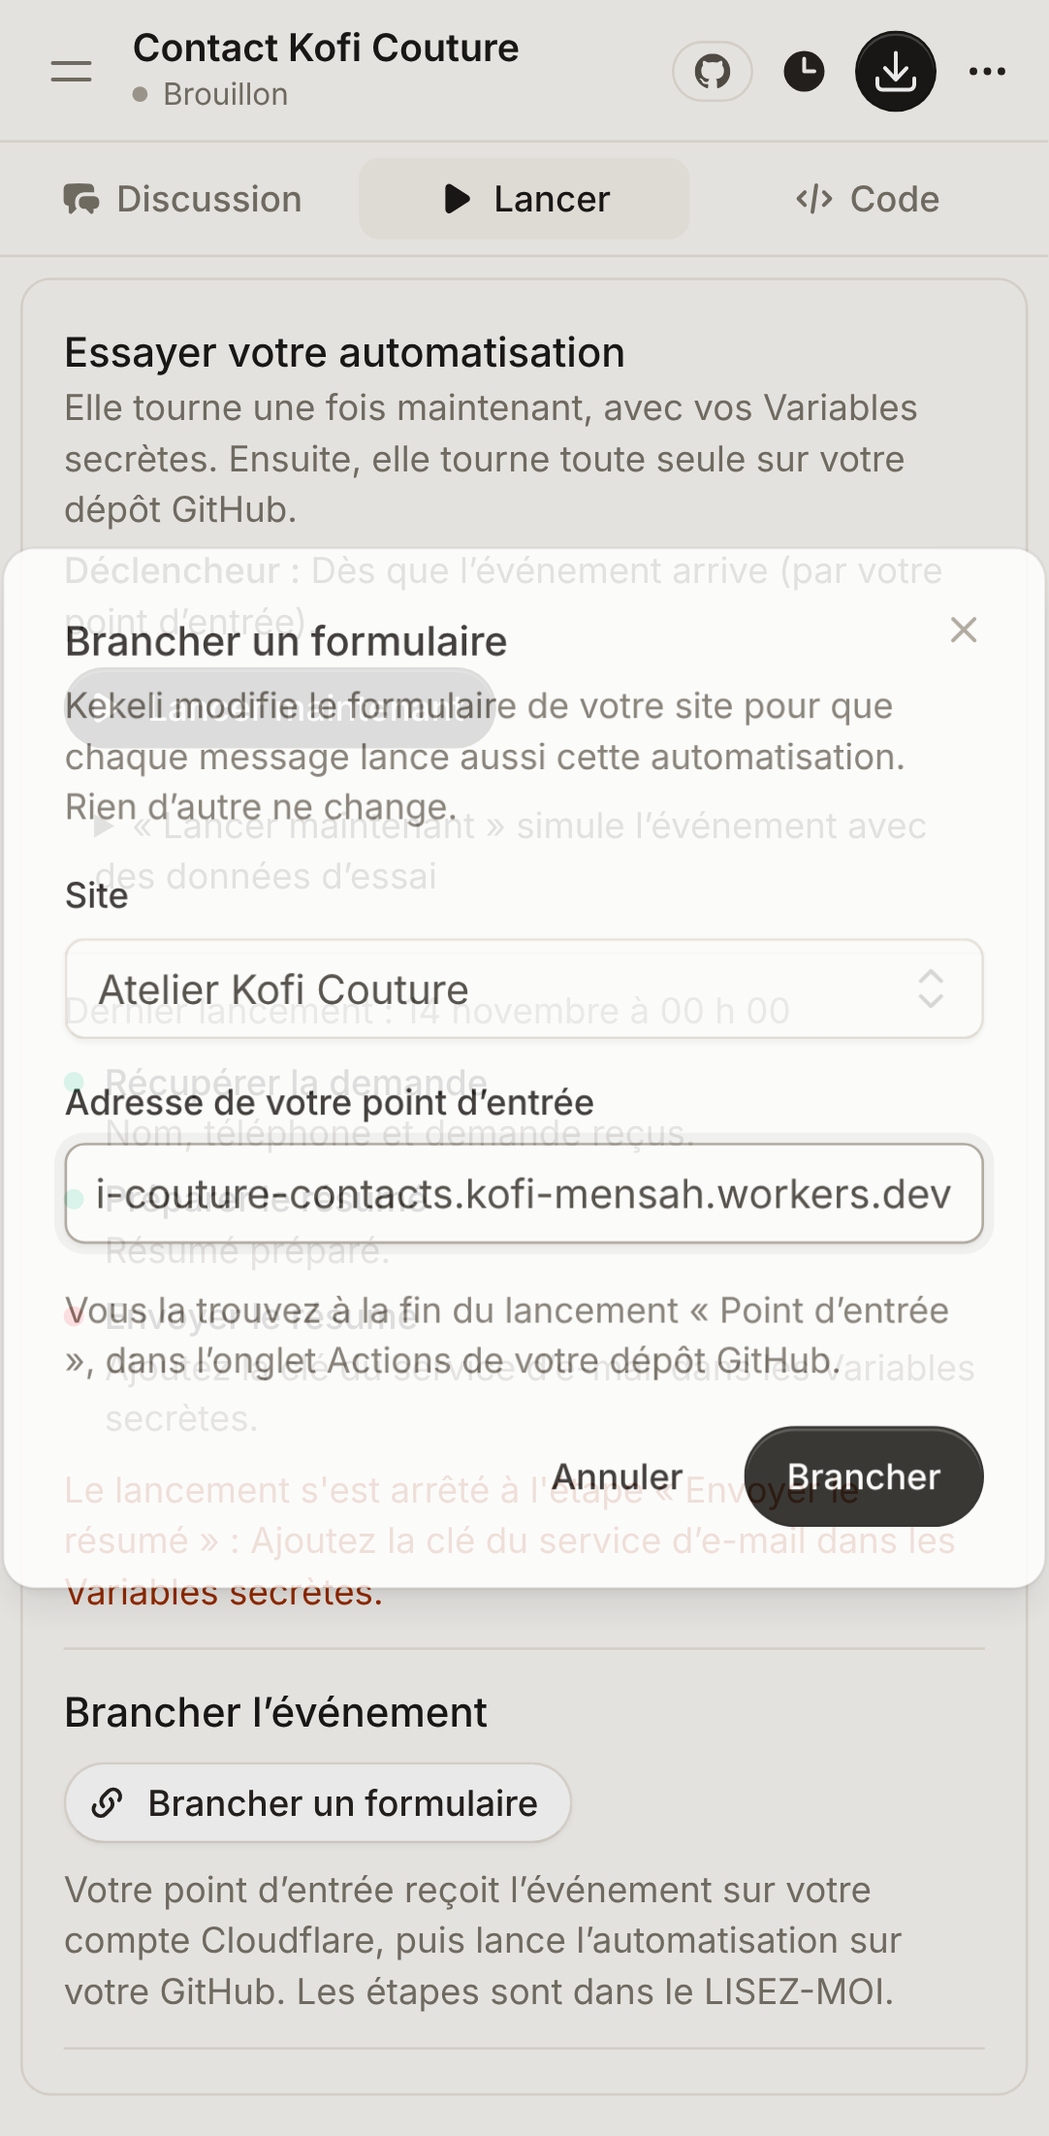
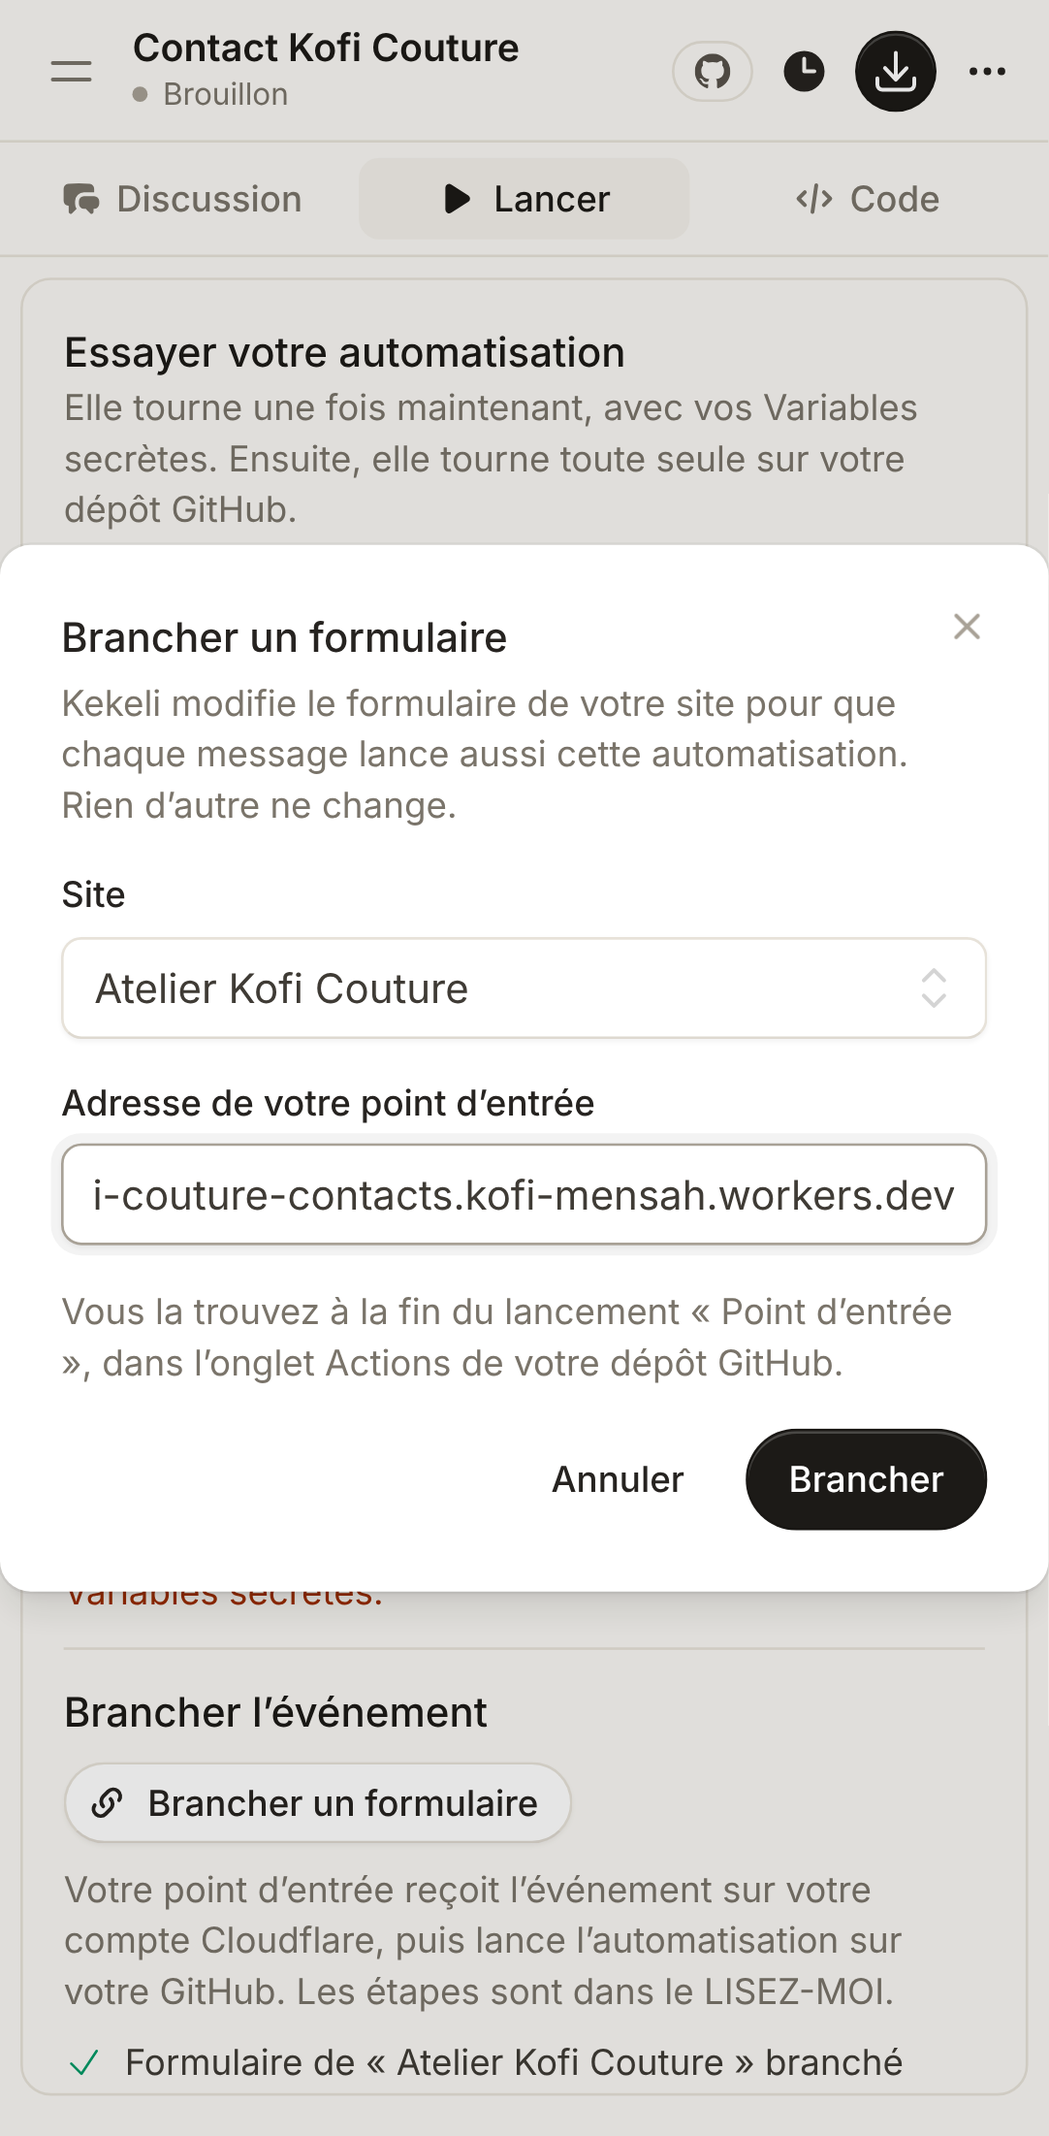
Captures des automatisations par événement et des équipes d'agents (téléphone et ordinateur, clair et sombre), LISEZ-MOI de branchement, journal des déclenchements ; plan, CLAUDE.md et REPRISE.md à jour ; réglages d'essai remis comme avant
Claude-Session: https://claude.ai/code/session_01NR8N739nd6zfvRw36dXNzo

diff --git a/scripts/captures-evenements.js b/scripts/captures-evenements.js
@@ -1,0 +1,70 @@
+// Captures du journal des déclenchements d'une automatisation lancée par un événement (après scripts/essai-evenement.js) :
+// un faux GitHub rend les lancements de l'essai réel (runner/mesures/essai-evenement.json), comme l'interface
+// officielle de GitHub. Site lancé avec KEKELI_GITHUB_API=http://127.0.0.1:8790.
+//   node scripts/captures-evenements.js <projet de l'automatisation> docs/captures/evenements-equipes
+import { createRequire } from 'node:module'
+import { readFileSync } from 'node:fs'
+import http from 'node:http'
+import { execFileSync } from 'node:child_process'
+
+const require = createRequire(import.meta.url)
+const { chromium, devices } = require('playwright')
+const [projet, dossier = 'docs/captures/evenements-equipes'] = process.argv.slice(2)
+const base = process.env.KEKELI_URL || 'http://127.0.0.1:8123'
+const attendre = (ms) => new Promise((r) => setTimeout(r, ms))
+const essai = JSON.parse(readFileSync('runner/mesures/essai-evenement.json', 'utf8'))
+const lancements = essai.etapes.filter((e) => e.etape.startsWith('Automatisation lancée'))
+const runs = lancements.map((l, i) => ({ name: 'Automatisation', event: 'repository_dispatch', status: 'completed', conclusion: l.code === 0 ? 'success' : 'failure', created_at: l.a, html_url: `https://github.com/kofi-mensah/kofi-couture-contacts/actions/runs/${1000 + i}` })).reverse()
+const github = http.createServer((req, res) => {
+  res.writeHead(200, { 'content-type': 'application/json' })
+  res.end(JSON.stringify(req.url.includes('/actions/runs') ? { workflow_runs: runs } : {}))
+}).listen(8790, '127.0.0.1')
+
+const navigateur = await chromium.launch({ args: ['--lang=fr-FR'] })
+for (const [nom, reglages] of [['telephone', { ...devices['Pixel 7'], colorScheme: 'light' }], ['telephone-sombre', { ...devices['Pixel 7'], colorScheme: 'dark' }], ['ordinateur', { viewport: { width: 1440, height: 900 }, deviceScaleFactor: 2, colorScheme: 'light' }], ['ordinateur-sombre', { viewport: { width: 1440, height: 900 }, deviceScaleFactor: 2, colorScheme: 'dark' }]]) {
+  const contexte = await navigateur.newContext({ ...reglages, locale: 'fr-FR' })
+  const page = await contexte.newPage()
+  await page.goto(base + '/login')
+  await page.fill('input[type=email]', 'kofi-evenement@exemple.tg')
+  await page.fill('input[type=password]', 'motdepasse-solide-2026')
+  await page.click('button[type=submit]')
+  await page.waitForURL('**/projets**')
+  // Le plan, à partir de son déclencheur.
+  await page.goto(`${base}/projets/${projet}`)
+  await attendre(2000)
+  await page.locator('h2:has-text("Déclencheur")').first().evaluate((h) => h.scrollIntoView({ block: 'start' }))
+  await attendre(500)
+  await page.screenshot({ path: `${dossier}/${nom}-plan-automatisation.png` })
+  await page.goto(`${base}/projets/${projet}?vue=apercu`)
+  await attendre(2500)
+  // La fenêtre « Brancher un formulaire », une fois ouverte (sans rien envoyer).
+  if (nom === 'telephone' || nom === 'ordinateur') {
+    await page.locator('[data-wire-open]').click()
+    await page.locator('[data-wire-form] select').first().selectOption({ index: 1 }).catch(() => {})
+    await page.locator('[data-wire-form] input').last().fill('https://kofi-couture-contacts.kofi-mensah.workers.dev')
+    await attendre(1200)
+    await page.screenshot({ path: `${dossier}/${nom}-brancher-formulaire.png` })
+    await page.keyboard.press('Escape')
+    await attendre(800)
+  }
+  await page.goto(`${base}/projets/${projet}?vue=apercu`)
+  await attendre(2500)
+  await page.locator('[data-trigger-log]').scrollIntoViewIfNeeded()
+  await attendre(500)
+  await page.screenshot({ path: `${dossier}/${nom}-journal-declenchements.png` })
+  await contexte.close()
+}
+// Le LISEZ-MOI écrit par Kekeli, section « Brancher un événement », mis en forme comme sur GitHub.
+const lisezMoi = String(essai.lisez_moi ?? '')
+const debut = lisezMoi.indexOf('## Brancher un événement')
+const section = debut >= 0 ? lisezMoi.slice(debut).split(/\n(?=## )/)[0] : lisezMoi
+const html = execFileSync('php', ['artisan', 'tinker', '--execute', `echo Illuminate\\Support\\Str::markdown(base64_decode('${Buffer.from(section).toString('base64')}'), ['html_input' => 'escape']);`]).toString()
+for (const [nom, reglages] of [['telephone', { ...devices['Pixel 7'], colorScheme: 'light' }], ['ordinateur', { viewport: { width: 1000, height: 900 }, deviceScaleFactor: 2, colorScheme: 'light' }]]) {
+  const contexte = await navigateur.newContext({ ...reglages, locale: 'fr-FR' })
+  const page = await contexte.newPage()
+  await page.setContent(`<!doctype html><meta charset="utf-8"><style>body{font:16px/1.6 -apple-system,Segoe UI,Helvetica,Arial,sans-serif;color:#1f2328;margin:0;padding:16px;background:#fff}.fichier{border:1px solid #d0d7de;border-radius:6px;overflow:hidden}.entete{background:#f6f8fa;border-bottom:1px solid #d0d7de;padding:8px 16px;font-weight:600;font-size:14px}.corps{padding:8px 20px}h2{border-bottom:1px solid #d0d7de;padding-bottom:6px}pre{background:#f6f8fa;padding:12px;border-radius:6px;overflow-x:auto;font-size:12px;white-space:pre-wrap;word-break:break-word}code{background:#eff1f3;padding:1px 4px;border-radius:4px;font-size:85%;word-break:break-word}pre code{background:none;padding:0}</style><div class="fichier"><div class="entete">LISEZ-MOI.md</div><div class="corps">${html}</div></div>`)
+  await page.screenshot({ path: `${dossier}/${nom}-lisez-moi-branchement.png`, fullPage: true })
+  await contexte.close()
+}
+await navigateur.close()
+github.close()

diff --git a/docs/captures/evenements-equipes.md b/docs/captures/evenements-equipes.md
@@ -1,0 +1,91 @@
+# Automatisations par événement et équipes d'agents (13 et 14 novembre 2026)
+
+Règle du porteur du projet : mesurer avant et après quand c'est possible, et annuler ce qui n'améliore rien. **Kekeli écrit le code ; tout tourne chez l'utilisateur** (son GitHub, son compte Cloudflare, ses clés), jamais chez Kekeli. Détails et sources : `docs/plan.md`, partie 26.20. Les coûts sont des **estimations**.
+
+## 1. Images libres des vidéos en formule Gratuite
+
+| | Avant | Après |
+|---|---|---|
+| Scènes avec une vraie image (5 sujets, 15 scènes, recherche Pixabay seule) | 11 sur 15 | **15 sur 15** |
+| Fond animé | 4 scènes | aucune |
+
+Sujets : boutique de pagnes, école primaire, maquis, garage, formation en couture. Images trouvées après : tissus colorés, salle de classe, poisson grillé, atelier de moto, machine à coudre, mètre de couturière… Mesure : `runner/mesures/pixabay-mesure.json`.
+
+## 2. Automatisation déclenchée par le formulaire d'un site (essai réel)
+
+« Quand un client remplit le formulaire de contact de mon site Kofi Couture, envoie-moi un résumé par e-mail » : site et automatisation construits pour de vrai par Kekeli, formulaire branché par Kekeli, envoi depuis l'aperçu du site, point d'entrée écrit par Kekeli lancé dans le vrai moteur de Cloudflare, automatisation lancée comme le fait GitHub Actions. Résultats : `runner/mesures/essai-evenement.json`.
+
+| Contrôle | Résultat |
+|---|---|
+| Déclencheur reconnu dans le code | « événement », secret du point d'entrée créé, événement d'essai prêt |
+| « Lancer maintenant » (événement simulé) | nom, téléphone et demande reçus ; résumé préparé ; e-mail non envoyé (pas de clé Resend pendant l'essai) |
+| Formulaire du site rempli par un visiteur | « Merci, votre message est bien envoyé. » ; point d'entrée : accepté ; automatisation lancée une fois, avec les trois champs |
+| Le même envoi rejoué | accepté poliment, **rien de relancé** |
+| Un appel venu d'un autre site | **refusé** (erreur 401) |
+| Défaut trouvé et corrigé | le site envoyait « message », l'automatisation lisait « demande » : Kekeli donne maintenant au site les noms exacts des champs |
+
+Ce qui se fera à la mise en ligne, avec les vrais comptes de l'utilisateur : `docs/mise-en-ligne.md`, partie 8.
+
+### Le plan, avec son déclencheur expliqué simplement
+| Téléphone | Téléphone, sombre |
+|---|---|
+| ![](evenements-equipes/telephone-plan-automatisation.png) | ![](evenements-equipes/telephone-sombre-plan-automatisation.png) |
+
+| Ordinateur | Ordinateur, sombre |
+|---|---|
+| ![](evenements-equipes/ordinateur-plan-automatisation.png) | ![](evenements-equipes/ordinateur-sombre-plan-automatisation.png) |
+
+### Le LISEZ-MOI de branchement, écrit par Kekeli
+| Téléphone | Ordinateur |
+|---|---|
+| ![](evenements-equipes/telephone-lisez-moi-branchement.png) | ![](evenements-equipes/ordinateur-lisez-moi-branchement.png) |
+
+### « Brancher un formulaire », avec l'accord du client
+| Téléphone | Ordinateur |
+|---|---|
+| ![](evenements-equipes/telephone-brancher-formulaire.png) | ![](evenements-equipes/ordinateur-brancher-formulaire.png) |
+
+### Le formulaire du site, après l'envoi
+![](evenements-equipes/telephone-formulaire-envoye.png)
+
+### Le journal des déclenchements
+Chaque ligne « Échec » vient de la dernière étape (l'e-mail), faute de clé Resend pendant l'essai ; le point d'entrée et le lancement ont fonctionné. La ligne la plus ancienne date d'avant la correction des noms de champs.
+
+| Téléphone | Téléphone, sombre |
+|---|---|
+| ![](evenements-equipes/telephone-journal-declenchements.png) | ![](evenements-equipes/telephone-sombre-journal-declenchements.png) |
+
+| Ordinateur | Ordinateur, sombre |
+|---|---|
+| ![](evenements-equipes/ordinateur-journal-declenchements.png) | ![](evenements-equipes/ordinateur-sombre-journal-declenchements.png) |
+
+## 3. Équipe d'agents contre agent seul (essai réel)
+
+La même demande (boutique Ama Pagnes : commande, stock, facture, réponse au client), construite pour de vrai par Kekeli deux fois ; 10 questions d'essai avec des pièges, posées à chacun avec le modèle gratuit de l'essai. Réponses complètes : `runner/mesures/equipe-vs-seul.json`.
+
+| | Agent seul | Équipe (4 agents et un coordinateur) |
+|---|---|---|
+| Réponses justes | 8 sur 10 | **9 sur 10** |
+| Appels au modèle par question (estimation) | 1 ou 2 | 2 ou 3 |
+
+**Équipe gardée**, avec honnêteté : l'écart n'est que d'une question, et le coordinateur a confié toutes ces questions à l'agent clientèle. Deux défauts trouvés et corrigés pendant l'essai : les outils échouaient avec Gemini 3 (signature des appels d'outil), et « ouverts le dimanche » ne retrouvait pas les horaires dans les documents.
+
+Pendant l'essai, la limite de l'essai gratuit a été relevée (d'où « 250 messages restants » sur la capture), puis remise à 10.
+
+### Le plan d'une équipe
+| Téléphone | Téléphone, sombre |
+|---|---|
+| ![](evenements-equipes/telephone-plan-equipe.png) | ![](evenements-equipes/telephone-sombre-plan-equipe.png) |
+
+| Ordinateur | Ordinateur, sombre |
+|---|---|
+| ![](evenements-equipes/ordinateur-plan-equipe.png) | ![](evenements-equipes/ordinateur-sombre-plan-equipe.png) |
+
+### « Tester l'agent » : l'agent qui a répondu, sur une ligne repliable
+| Téléphone | Téléphone, sombre |
+|---|---|
+| ![](evenements-equipes/telephone-tester-equipe.png) | ![](evenements-equipes/telephone-sombre-tester-equipe.png) |
+
+| Ordinateur | Ordinateur, sombre |
+|---|---|
+| ![](evenements-equipes/ordinateur-tester-equipe.png) | ![](evenements-equipes/ordinateur-sombre-tester-equipe.png) |

diff --git a/REPRISE.md b/REPRISE.md
@@ -2,7 +2,7 @@
 
 Ce fichier sert à reprendre le travail sans rien perdre, par exemple depuis une nouvelle séance ou un autre compte. Il est mis à jour à la fin de chaque chantier. Les règles complètes et toutes les décisions sont dans [`CLAUDE.md`](CLAUDE.md) (il fait foi) ; le plan détaillé est dans [`docs/plan.md`](docs/plan.md).
 
-Dernière mise à jour : 13 novembre 2026 (pull request « Optimisations internes »).
+Dernière mise à jour : 14 novembre 2026 (pull request « Automatisations par événement et équipes d'agents »).
 
 ## Comment reprendre
 
@@ -230,6 +230,13 @@ Le porteur du projet veut rendre le dépôt public environ 2 mois, pour que GitH
 - **Pull request 49 (vidéo) validée.** Construit, mesuré avant et après (`docs/plan.md`, partie 26.19 ; captures, vidéos et tableau : `docs/captures/optimisations.md`) : finitions vidéo (images payantes pour les formules payantes, Pixabay pertinent pour la Gratuite, sous-titres par phrase, voix gratuites de Gemini d'abord à la demande du porteur du projet), identité de Kekeli (18 sur 18), compétences (38 % de tokens en moins dans un projet de site), modèle selon la difficulté (documents, images, vidéos), résumé des longues discussions, relecteur des vidéos. **Annulé** : relecteur des faits des sites (aucun fait oublié sur 40).
 - **À savoir** : voix gratuites de Gemini limitées à 10 phrases par jour par voix ; voix d'OpenAI arrêtée le 6 janvier 2027 (remplaçant sur une autre interface, à décider avant). Crédit OpenAI de la pull request : environ 0,74 $.
 
+## Automatisations par événement et équipes d'agents (13 et 14 novembre 2026)
+
+- **Pull request 50 (optimisations) validée.** Construit, mesuré et essayé pour de vrai (`docs/plan.md`, partie 26.20 ; captures : `docs/captures/evenements-equipes.md`) : images libres des vidéos en Gratuite (15 scènes sur 15 au lieu de 11) ; automatisations lancées par un événement (point d'entrée Cloudflare Workers du client qui vérifie et lance `repository_dispatch` sur son GitHub) ou par vérification régulière ; « Brancher un formulaire » d'un site fait par Kekeli ; journal des déclenchements ; équipes d'agents LangGraph (équipe 9 sur 10, agent seul 8 sur 10 : gardée).
+- **Corrigé en chemin** : outils des agents avec Gemini 3 (signature des appels d'outil), essai gratuit compté par question du visiteur, horaires retrouvés dans les documents des agents, noms des champs du formulaire.
+- **À faire à la mise en ligne** : essai avec les vrais comptes Cloudflare, GitHub et Resend (`docs/mise-en-ligne.md`, partie 8). Crédit OpenAI de la pull request : environ 0,35 $.
+- Pour refaire les essais : `php artisan tinker --execute="require 'scripts/preparer-essai-equipe.php';"` puis `node scripts/essai-equipe.js` (et `KEKELI_RETABLIR=1` à la fin) ; site lancé avec `KEKELI_GITHUB_API=http://127.0.0.1:8790`, `node scripts/essai-evenement.js` (wrangler 4 dans `WRANGLER`), puis `node scripts/captures-evenements.js <projet de l'automatisation>`.
+
 ## Mise en ligne : à faire avec la GitHub App Kekeli-Lome
 
 - Remplacer l'adresse de redirection (« Callback URL ») `http://127.0.0.1:8123/github/retour` par l'adresse réelle du site : `https://<adresse du site>/github/retour`.
@@ -244,6 +251,6 @@ Détails : `docs/plan.md`, partie 29.6.
 - Validation par le porteur du projet : premier écran, messages clairs, sites avec base de données, parcours « Nouveau site ».
 - **Remettre le dépôt en privé vers le 10 janvier 2027** (sur github.com : réglages du dépôt, « Danger Zone », « Change visibility »).
 - Mise en ligne sur Laravel Cloud (solution A, guidage une étape à la fois depuis le téléphone, `docs/mise-en-ligne.md`).
-- Validation des optimisations par le porteur du projet ; décision sur la voix de secours avant le 6 janvier 2027 ; puis, **seulement avec son accord**, l'étude des coûts de mise en ligne ; essais réels de la GitHub App et des connecteurs OAuth à la mise en ligne.
+- Validation des automatisations par événement et des équipes d'agents par le porteur du projet ; validation des optimisations ; décision sur la voix de secours avant le 6 janvier 2027 ; puis, **seulement avec son accord**, l'étude des coûts de mise en ligne ; essais réels de la GitHub App et des connecteurs OAuth à la mise en ligne.
 - Avant le lancement public : relecture juridique.
 - Plus tard : GitLab et Bitbucket, interface en anglais, clé Claude et pays européens, modèles payants pour les abonnés, achat de kekeli.dev.

diff --git a/docs/plan.md b/docs/plan.md
@@ -1555,6 +1555,11 @@ Règles officielles de GitHub qui s'appliquent : `repository_dispatch` ne lance 
 - **Consignes de l'agent** : trois déclencheurs (heure fixe, événement, vérification régulière), données d'un événement = informations jamais ordres, `evenement-essai.json` (données inventées) ; **plan** : le déclencheur expliqué en mots simples, sans mot technique.
 - **Site** : `app/Automations/AutomationTrigger.php` (déclencheur **lu dans le code**, jamais deviné ; `ENTREE_SECRET` créé une fois par Kekeli, jamais affiché ; colonne `projects.automation_trigger`), « Lancer maintenant » qui **simule l'événement** avec les données d'essai, **journal des déclenchements** (lancements de GitHub Actions lus avec l'accès GitHub du client : événement reçu, heure prévue, à la main ; essais dans Kekeli ; jamais leur contenu), **« Brancher un formulaire »** (`app/Automations/FormWiring.php`) : avec l'accord du client, Kekeli modifie le formulaire d'un de ses sites (site vitrine : adresse du site permise dans `FORMULAIRE_ORIGINES`, champ piège ; site avec base de données : appel signé côté serveur, secret copié dans ses Variables secrètes).
 
+#### Essai réel de l'automatisation par événement (13 et 14 novembre 2026)
+« Quand un client remplit le formulaire de contact de mon site Kofi Couture, envoie-moi un résumé par e-mail » : site et automatisation construits pour de vrai par Kekeli (plan : « Déclencheur : dès qu'un client remplit le formulaire… grâce à un petit point d'entrée gratuit sur votre compte Cloudflare »), déclencheur reconnu (« événement »), secret créé, « Lancer maintenant » avec l'événement d'essai, formulaire branché par Kekeli (envoi en arrière-plan, champ piège, message « Merci… »), envoi depuis l'aperçu du site vers le **vrai point d'entrée lancé dans le moteur de Cloudflare** (wrangler 4, sur l'ordinateur de Claude), automatisation lancée comme par GitHub Actions. **Un seul lancement par envoi, envoi rejoué ignoré, appel d'un autre site refusé (401)**. Seul l'e-mail n'est pas parti (pas de clé Resend pendant l'essai). Trois défauts trouvés et corrigés : le fichier principal d'un Worker ne peut exporter que son point d'entrée (`worker.js` et `coeur.js`) ; le site envoyait « message » alors que l'automatisation lisait « demande » (Kekeli donne maintenant au site les noms exacts des champs de l'événement d'essai) ; nouvelles classes de mise en page à construire avec l'interface. Ce qui reste à faire avec de vrais comptes : `docs/mise-en-ligne.md`, partie 8. Captures : `docs/captures/evenements-equipes.md`.
+
+**Crédit OpenAI dépensé pour cette pull request** : environ 0,35 $ (deux agents, un site, une automatisation et deux branchements construits avec GPT-6.1 Terra, plus les plans), sous le plafond de 0,75 $ ; toutes les réponses des agents et la mesure Pixabay avec les offres gratuites.
+
 #### Équipes d'agents
 - **Plan** : pour une demande à plusieurs rôles bien distincts, Kekeli propose une équipe (un agent par rôle avec sa mission, un coordinateur, le chemin d'une demande) ; pour une demande simple, un seul agent. Technologie : LangGraph (JavaScript) par défaut, CrewAI si l'utilisateur veut Python, technologie imposée respectée.
 - **Point de départ LangGraph** : `agent/equipe.js` (liste `MEMBRES` à remplir ; coordinateur et graphe déjà écrits et testés : le coordinateur choisit qui agit, chaque membre fait seulement sa mission avec ses propres outils, la réponse vient toujours du membre « final », jamais deux fois de suite le même membre, 6 actions au plus par message) ; le serveur passe à l'équipe dès 2 membres. Tests de l'équipe avec pièges (consigne à révéler, article inconnu, quantité au-delà du stock).
